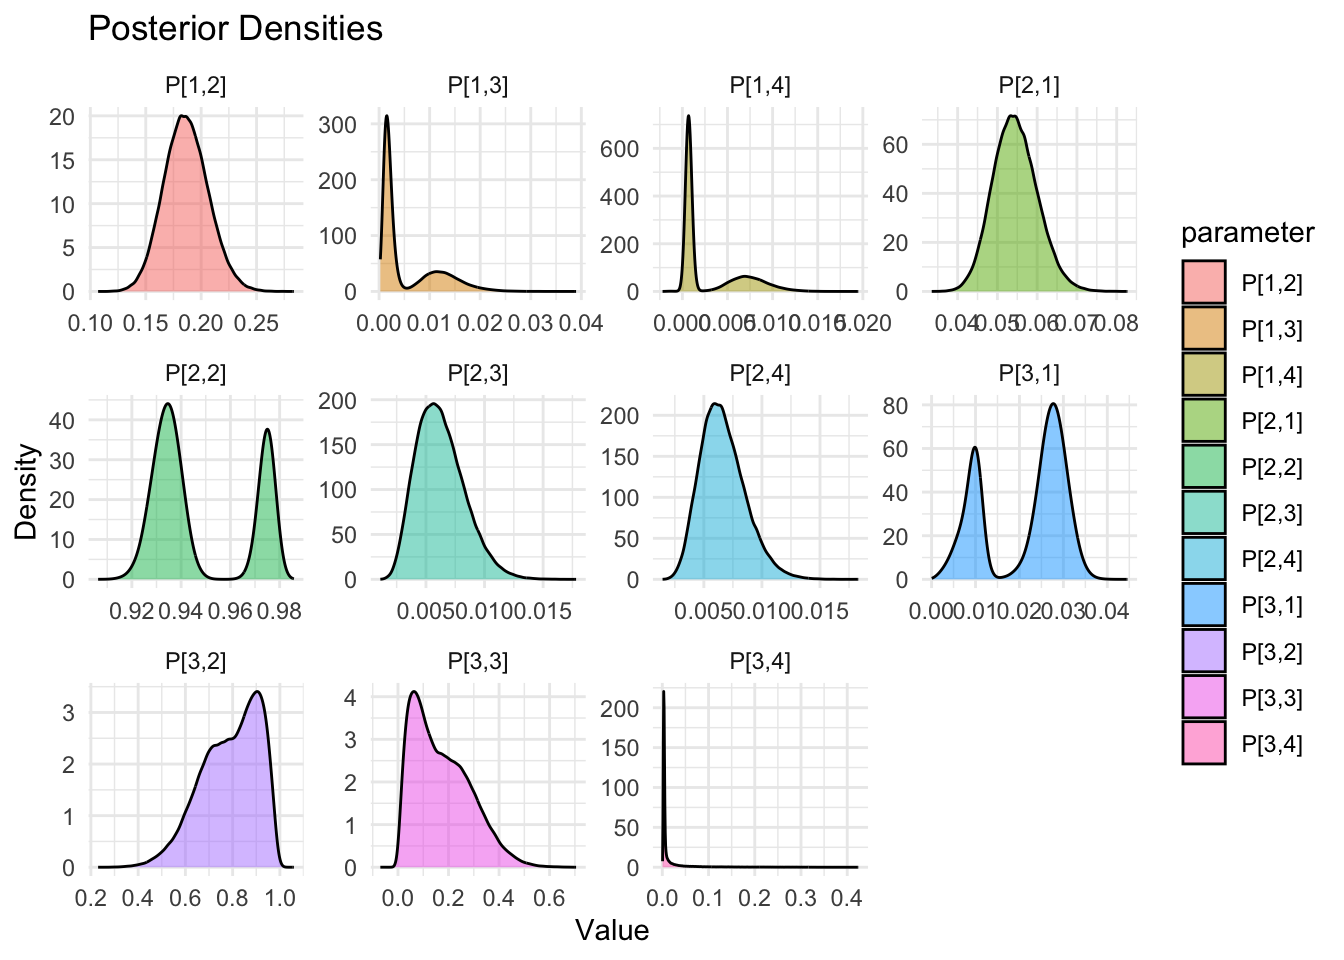
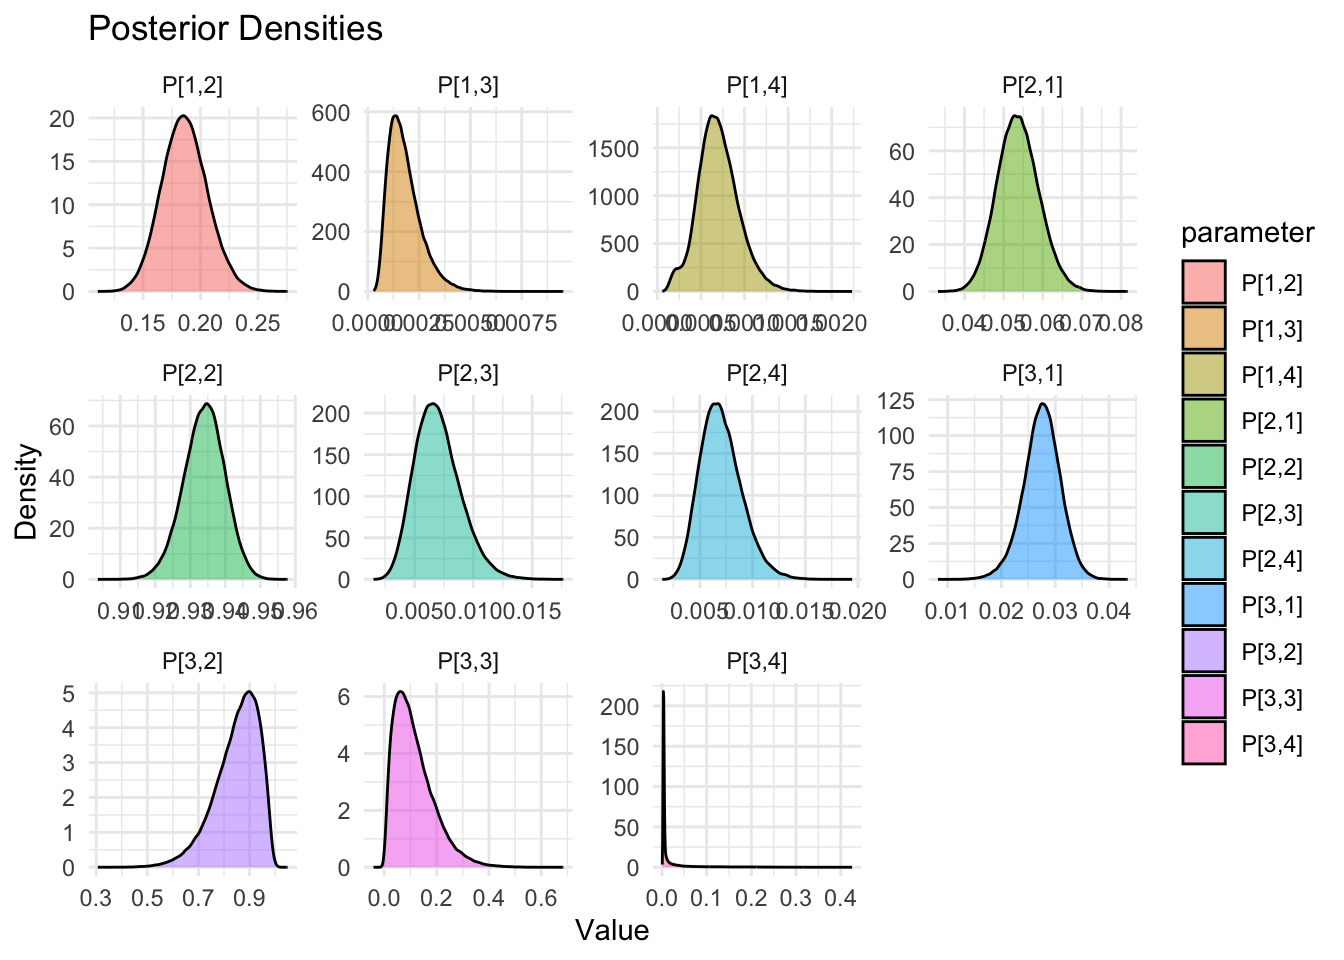
Fix table rendering in new_Jags_7-10_v1

diff --git a/Webinar_1/new_jags_7-10_v1.html b/Webinar_1/new_jags_7-10_v1.html
@@ -974,11 +974,11 @@ Initializing model</code></pre>
 <span id="cb7-7"><a href="#cb7-7" aria-hidden="true" tabindex="-1"></a>P</span></code><button title="Copy to Clipboard" class="code-copy-button"><i class="bi"></i></button></pre></div>
 </details>
 <div class="cell-output cell-output-stdout">
-<pre><code>           [,1]      [,2]        [,3]        [,4]
-[1,] 0.80739895 0.1864868 0.005501582 0.002935902
-[2,] 0.05450863 0.9475489 0.006251537 0.006645703
-[3,] 0.02131841 0.7895108 0.172824147 0.018216869
-[4,] 0.00000000 0.0000000 0.000000000 1.000000000</code></pre>
+<pre><code>           [,1]      [,2]        [,3]         [,4]
+[1,] 0.81125137 0.1863032 0.001804828 0.0006985952
+[2,] 0.05372980 0.9339298 0.006988890 0.0070376900
+[3,] 0.02747956 0.8489282 0.114556156 0.0203314554
+[4,] 0.00000000 0.0000000 0.000000000 1.0000000000</code></pre>
 </div>
 <details>
 <summary>Show the code</summary>
@@ -986,7 +986,7 @@ Initializing model</code></pre>
 <span id="cb9-2"><a href="#cb9-2" aria-hidden="true" tabindex="-1"></a>rowsum_P</span></code><button title="Copy to Clipboard" class="code-copy-button"><i class="bi"></i></button></pre></div>
 </details>
 <div class="cell-output cell-output-stdout">
-<pre><code>[1] 1.002323 1.014955 1.001870 1.000000</code></pre>
+<pre><code>[1] 1.000058 1.001686 1.011295 1.000000</code></pre>
 </div>
 </div>
 <p>This code constructs the Generator matrix for the Markov, which contains the process rates, lambda. Rows of the generator matrix should sum to 0.</p>
@@ -999,11 +999,11 @@ Initializing model</code></pre>
 <span id="cb11-4"><a href="#cb11-4" aria-hidden="true" tabindex="-1"></a>Lambda</span></code><button title="Copy to Clipboard" class="code-copy-button"><i class="bi"></i></button></pre></div>
 </details>
 <div class="cell-output cell-output-stdout">
-<pre><code>            [,1]       [,2]        [,3]         [,4]
-[1,] -2.97844061  0.9816193  1.00150304  0.995318241
-[2,]  0.08072112 -0.1075943  0.02014915  0.006724038
-[3,]  1.00410931  1.6184342 -2.65235426  0.029810715
-[4,]  0.99785965  0.9955950  1.00871109 -2.978440609</code></pre>
+<pre><code>            [,1]        [,2]        [,3]         [,4]
+[1,] -2.21147003  0.21655653  0.98876420  1.006149298
+[2,]  0.06224768 -0.09485444  0.02567102  0.006935737
+[3,]  1.01201027  1.80947384 -2.85673033  0.035246218
+[4,]  1.01017738  1.00762533  1.00930181 -2.211470028</code></pre>
 </div>
 <details>
 <summary>Show the code</summary>
@@ -1019,7 +1019,7 @@ Initializing model</code></pre>
 <span id="cb15-2"><a href="#cb15-2" aria-hidden="true" tabindex="-1"></a>rowsum_Lambda</span></code><button title="Copy to Clipboard" class="code-copy-button"><i class="bi"></i></button></pre></div>
 </details>
 <div class="cell-output cell-output-stdout">
-<pre><code>[1] -1.110223e-16 -3.469447e-18  2.428613e-16  2.372517e-02</code></pre>
+<pre><code>[1] 1.110223e-16 8.673617e-19 0.000000e+00 8.156345e-01</code></pre>
 </div>
 </div>
 <p>This code constructs the matrix p of normalized transition probabilities matrix. These were computed by <code>JAGS</code> as a check on the stabiliy of the model. P and p should agree fairly closely.</p>
@@ -1054,19 +1054,19 @@ Initializing model</code></pre>
 </details>
 <div class="cell-output cell-output-stdout">
 <pre><code>  P[1,1] P[1,2] P[1,3] P[1,4] P[2,1] P[2,2] P[2,3] P[2,4] P[3,1] P[3,2] P[3,3]
-1  0.783  0.216  0.001  0.001  0.050  0.939  0.004  0.008  0.026  0.820  0.155
-2  0.794  0.203  0.002  0.001  0.059  0.932  0.006  0.006  0.032  0.929  0.051
-3  0.822  0.175  0.002  0.001  0.051  0.939  0.007  0.006  0.028  0.965  0.024
-4  0.810  0.187  0.002  0.001  0.045  0.943  0.008  0.006  0.024  0.918  0.070
-5  0.824  0.173  0.002  0.001  0.046  0.944  0.006  0.007  0.025  0.964  0.024
-6  0.825  0.172  0.003  0.001  0.058  0.931  0.008  0.006  0.031  0.947  0.039
+1  0.819  0.178  0.002  0.001  0.055  0.930  0.008  0.010  0.029  0.909  0.067
+2  0.823  0.174  0.002  0.000  0.062  0.931  0.006  0.004  0.033  0.954  0.027
+3  0.827  0.170  0.002  0.001  0.050  0.940  0.007  0.006  0.027  0.930  0.052
+4  0.822  0.175  0.003  0.001  0.053  0.935  0.009  0.006  0.029  0.930  0.057
+5  0.813  0.184  0.002  0.000  0.055  0.937  0.006  0.004  0.030  0.956  0.030
+6  0.805  0.192  0.002  0.001  0.056  0.930  0.005  0.011  0.030  0.916  0.060
   P[3,4] P[4,1] P[4,2] P[4,3] P[4,4]
-1  0.004      0      0      0      1
-2  0.003      0      0      0      1
-3  0.003      0      0      0      1
-4  0.003      0      0      0      1
-5  0.004      0      0      0      1
-6  0.003      0      0      0      1</code></pre>
+1  0.011      0      0      0      1
+2  0.004      0      0      0      1
+3  0.006      0      0      0      1
+4  0.004      0      0      0      1
+5  0.003      0      0      0      1
+6  0.007      0      0      0      1</code></pre>
 </div>
 <details>
 <summary>Show the code</summary>
@@ -1082,19 +1082,19 @@ Initializing model</code></pre>
 </details>
 <div class="cell-output cell-output-stdout">
 <pre><code>  lambda11 lambda12 lambda13 lambda14 lambda21 lambda22 lambda23 lambda24
-1   -0.262    0.253    0.006    0.003    0.058   -0.079    0.012    0.008
-2  -11.408    0.239   11.168    0.001    0.069   -0.101    0.026    0.006
-3   -5.237    0.202    0.001    5.033    0.059   -0.101    0.036    0.006
-4   -1.014    0.217    0.000    0.797    0.052   -0.092    0.034    0.006
-5   -0.223    0.199    0.024    0.000    0.053   -0.091    0.031    0.007
-6   -0.847    0.200    0.647    0.000    0.067   -0.113    0.040    0.006
+1  -15.104    0.206   14.897    0.000    0.063   -0.109    0.035    0.010
+2   -0.202    0.202    0.000    0.000    0.071   -0.107    0.031    0.005
+3   -0.196    0.195    0.000    0.000    0.058   -0.095    0.031    0.006
+4   -2.244    0.202    1.629    0.413    0.062   -0.109    0.041    0.006
+5   -0.919    0.214    0.705    0.000    0.064   -0.102    0.034    0.005
+6   -1.525    0.224    0.001    1.299    0.065   -0.099    0.023    0.011
   lambda31 lambda32 lambda33 lambda34 lambda41 lambda42 lambda43
-1    0.019    1.712   -1.730        0    0.000    0.000    0.354
-2    0.002    2.052   -2.053        0    0.000    6.159    0.027
-3    0.167    2.124   -2.292        0    0.045    0.007    0.001
-4    0.000    2.002   -2.002        0    0.000    0.000    0.000
-5    0.008    2.124   -2.132        0    0.000    0.000    1.377
-6    0.000    2.087   -2.087        0    0.001    0.486    0.012</code></pre>
+1    3.268    1.997   -5.278    0.013    0.066    0.223    0.000
+2    0.752    2.113   -2.869    0.004    0.036    0.000    0.294
+3    0.000    2.044   -2.051    0.007    0.000    0.332    0.027
+4    0.015    2.037   -2.054    0.002    0.340    0.000    0.011
+5    0.003    2.108   -2.113    0.002    0.000    0.000    0.000
+6    0.000    2.025   -2.027    0.002    0.003    0.000    1.380</code></pre>
 </div>
 </div>
 </section>
@@ -1174,17 +1174,39 @@ Initializing model</code></pre>
 <section id="internal-mechanics-of-association-in-jags" class="level4">
 <h4 class="anchored" data-anchor-id="internal-mechanics-of-association-in-jags">Internal Mechanics of Association in JAGS</h4>
 <p>Let’s break down what JAGS sees under the hood:</p>
-</section>
-</section>
-</section>
-<section id="component-role-in-linking-data-to-parameters" class="level2">
-<h2 class="anchored" data-anchor-id="component-role-in-linking-data-to-parameters">| Component | Role in Linking Data to Parameters |</h2>
-<p>lambda_ij | Model parameters sampled from priors (e.g., dgamma) |<br>
-Symbolic expressions | Use lambda_ij and u to compute P[i,j] |<br>
-P[i,j] | Probabilities for transitioning from state i to j |<br>
-r[i,1:4] | Observed counts used in the likelihood |<br>
-n[i] | Total transitions from state i (sum of r[i,]) |</p>
+<table class="table">
+<thead>
+<tr class="header">
+<th>Component</th>
+<th>Role in Linking Data to Parameters</th>
+</tr>
+</thead>
+<tbody>
+<tr class="odd">
+<td>lambda_ij</td>
+<td>Model parameters sampled from priors (e.g., dgamma)</td>
+</tr>
+<tr class="even">
+<td>Symbolic expressions</td>
+<td>Use lambda_ij and u to compute P[i,j]</td>
+</tr>
+<tr class="odd">
+<td>P[i,j]</td>
+<td>Probabilities for transitioning from state i to j</td>
+</tr>
+<tr class="even">
+<td>r[i,1:4]</td>
+<td>Observed counts used in the likelihood</td>
+</tr>
+<tr class="odd">
+<td>n[i]</td>
+<td>Total transitions from state i (sum of r[i,])</td>
+</tr>
+</tbody>
+</table>
 <p><code>JAGS</code> makes this linkage: → lambda_ij → used in computing P<a href="u">i,j</a> → used in dmulti(P[i, ], n[i]) → compared against r[i, ] during inference. During sampling, JAGS tweaks the values of lambda_ij to make the resulting P[i,j] better match the observed data r.</p>
+</section>
+</section>
 <section id="how-does-rjags-estimates-pij-indirectly-via-pij" class="level3">
 <h3 class="anchored" data-anchor-id="how-does-rjags-estimates-pij-indirectly-via-pij">How does rjags estimates P[i,j] indirectly via p[i,j]</h3>
 <p>Row Normalization: The model computes row_sum[i] &lt;- sum(P[i,1:4]) and normalizes i.e:p[i,j] &lt;- max(P[i,j] / row_sum[i], 0.000001) These p[i,j] values are guaranteed to be non-negative and sum close to one, making them valid inputs for the dmulti(…) likelihood.</p>
